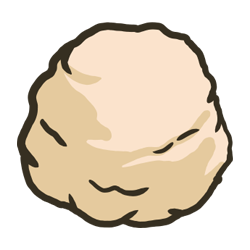
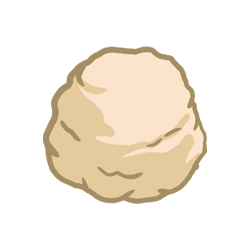
paste change

diff --git a/flutter_service_worker.js b/flutter_service_worker.js
@@ -6,9 +6,9 @@ const CACHE_NAME = 'flutter-app-cache';
 const RESOURCES = {"assets/AssetManifest.bin": "11ac1c749d076f8836d0c07e30c3ec3c",
 "assets/AssetManifest.bin.json": "e6a280ee1d44fec445c5e90715353706",
 "assets/AssetManifest.json": "3942233a6a28fabb7b6252540ba9eac1",
-"assets/assets/images/base/paste_original.png": "38314be4c09fae01e97903ff7be07d2b",
-"assets/assets/images/base/paste_rice.png": "1c64a25e0de69f37642b50916736fd06",
-"assets/assets/images/base/paste_vegi.png": "e911477d54d3349ae5bfbbc198ce76e2",
+"assets/assets/images/base/paste_original.png": "76d53039308891f75322bfa459ac0745",
+"assets/assets/images/base/paste_rice.png": "df7cbea473c9793532710a47f0057faf",
+"assets/assets/images/base/paste_vegi.png": "6508c5a9986f053880d47c423bd0b037",
 "assets/assets/images/color/150_black.png": "71e01142a32bf7e65c4685fcd3c850e4",
 "assets/assets/images/color/150_brown.png": "562cde12bc166ed55c04f65b94b06507",
 "assets/assets/images/color/150_default.png": "c132578941a8b4facdf61a1e99991dab",
@@ -228,10 +228,10 @@ const RESOURCES = {"assets/AssetManifest.bin": "11ac1c749d076f8836d0c07e30c3ec3c
 "canvaskit/skwasm_heavy.wasm": "8034ad26ba2485dab2fd49bdd786837b",
 "favicon.png": "5dcef449791fa27946b3d35ad8803796",
 "flutter.js": "888483df48293866f9f41d3d9274a779",
-"flutter_amook/.git/COMMIT_EDITMSG": "8cf8463b34caa8ac871a52d5dd7ad1ef",
+"flutter_amook/.git/COMMIT_EDITMSG": "553f3a1631eda841c32603eee0f59839",
 "flutter_amook/.git/config": "7a610f0f5d1926320954288a657788ba",
 "flutter_amook/.git/description": "a0a7c3fff21f2aea3cfa1d0316dd816c",
-"flutter_amook/.git/FETCH_HEAD": "3a9fb8bbadda816c68ae3b962de92efa",
+"flutter_amook/.git/FETCH_HEAD": "f25f2db344690e3939338bcf73b982a0",
 "flutter_amook/.git/HEAD": "cf7dd3ce51958c5f13fece957cc417fb",
 "flutter_amook/.git/hooks/applypatch-msg.sample": "ce562e08d8098926a3862fc6e7905199",
 "flutter_amook/.git/hooks/commit-msg.sample": "579a3c1e12a1e74a98169175fb913012",
@@ -247,12 +247,13 @@ const RESOURCES = {"assets/AssetManifest.bin": "11ac1c749d076f8836d0c07e30c3ec3c
 "flutter_amook/.git/hooks/push-to-checkout.sample": "c7ab00c7784efeadad3ae9b228d4b4db",
 "flutter_amook/.git/hooks/sendemail-validate.sample": "4d67df3a8d5c98cb8565c07e42be0b04",
 "flutter_amook/.git/hooks/update.sample": "647ae13c682f7827c22f5fc08a03674e",
-"flutter_amook/.git/index": "81623b284d544f5084a431d62a063801",
+"flutter_amook/.git/index": "7a720f245555f9d38d42dbe9885a27f7",
 "flutter_amook/.git/info/exclude": "036208b4a1ab4a235d75c181e685e5a3",
-"flutter_amook/.git/logs/HEAD": "39563df16ede8edbae221d6920fab2b2",
-"flutter_amook/.git/logs/refs/heads/main": "39563df16ede8edbae221d6920fab2b2",
-"flutter_amook/.git/logs/refs/remotes/origin/HEAD": "ea0c97eb9e837a37b5f919b5095d17ca",
-"flutter_amook/.git/logs/refs/remotes/origin/main": "b3721eb4b49ccd798d1015ede25a4ed2",
+"flutter_amook/.git/logs/HEAD": "f76ee0a10ee1a1005d883a215eabfcfa",
+"flutter_amook/.git/logs/refs/heads/main": "f76ee0a10ee1a1005d883a215eabfcfa",
+"flutter_amook/.git/logs/refs/remotes/origin/HEAD": "740607c0d0154a3d8f6285ca2695d865",
+"flutter_amook/.git/logs/refs/remotes/origin/main": "463281f97b5196f5852f8670dff2deeb",
+"flutter_amook/.git/objects/00/53d21bfcff20b7824c3f37f90b469118e5b5bf": "358f1b26b9d7cba12508577c93e7d2fc",
 "flutter_amook/.git/objects/02/3082c39677c94b1325571adf0654483e542d40": "0350ba3a38b1f5ff023f95e8f5734e2e",
 "flutter_amook/.git/objects/05/b3a2b37d64560a88f2dd4dd763f6fadd17292c": "f498137d89726bfe915cf598f1201233",
 "flutter_amook/.git/objects/0d/13fad4a09d199c65d9d6a0a7aa7d5270427d99": "1d59dfec92371cfb9b23102130f4815a",
@@ -264,26 +265,37 @@ const RESOURCES = {"assets/AssetManifest.bin": "11ac1c749d076f8836d0c07e30c3ec3c
 "flutter_amook/.git/objects/26/08371e99cc0f726a6fcd87398b707d439a21ac": "e73feafe58f9bd44b6e3483b8d5cf1e1",
 "flutter_amook/.git/objects/26/a51626b297ba7773d932c2e0c1ddbb11d0674d": "02e582d09072a70c8b8cced04ad8da34",
 "flutter_amook/.git/objects/2c/c3bcc68f7aa678faeefcc93daecb54d16ce3ba": "555dd58bc40cf9782a7d5332199c6f70",
+"flutter_amook/.git/objects/33/3f5b199822702a9b273e558081df46ffe81dc8": "17b67f6b6ba39d0a4ffed08d9f46dfd2",
 "flutter_amook/.git/objects/34/0cffe4bf5fdabbc256b60a3591d9b2ced2c9c5": "3f2f7fc82fcc87817347359db6fe5f61",
 "flutter_amook/.git/objects/3b/2aa069a5996efc0b8647deb7ff7e1c0fe06939": "27b33d013fdf6c07b7d943bd9be8540d",
 "flutter_amook/.git/objects/3e/0c61604d30fc0936d4807646ef168763fc5a8d": "5b29d78d1e9ae90df4b4f21dc84ccb4d",
 "flutter_amook/.git/objects/3e/1a61cfda92e92b920656a9d9c61967228e774f": "d78d8521857527147f0934841e6fab5b",
+"flutter_amook/.git/objects/3e/882d1d85c602c8f51f730bb6546479bcec4945": "a1918b6422a4aeee80fb96bd91509e44",
 "flutter_amook/.git/objects/44/254c64fdeca7d12bc6320f8c3f2c2345946f73": "75de0a152cc3f1a6b44050f0fd2eed17",
+"flutter_amook/.git/objects/45/6e254707fd2423904373b7af282eaa950658b8": "db2d7dc340dc64b6d614e1ed24d7e79f",
 "flutter_amook/.git/objects/45/e3aef76fd72af074076731952a908d27f25318": "395350287593e57069d12ffb1e96d7b0",
 "flutter_amook/.git/objects/47/42da518f65ed846c1c5c5fed1a371782776e72": "6fe167b301e3e384ab4563e6dd333535",
 "flutter_amook/.git/objects/48/9e77c587a9a7478ac492b1bb7abdaba39ac176": "75160819e6f490b51d8f83b9546c3393",
+"flutter_amook/.git/objects/4e/d03eabb7fdcbbaeca2eaed12432e25161e019d": "6377ff0cf10aec0e789306bb150bbf51",
 "flutter_amook/.git/objects/56/114f83029889ba7fbc270ea738b9e03f780d64": "87d74156d2e9ccd32540244563e3db2b",
 "flutter_amook/.git/objects/5a/b805f11539026ae4bfd942c51640a5195b5adb": "fd0e39eab2807ce12b20118f05cde8f9",
 "flutter_amook/.git/objects/60/2c7965ecc7a2e2ce8bdc4b942832474314e831": "58f1ba0569cf0bd341e02d7f6e772bc4",
+"flutter_amook/.git/objects/64/c5b549a7e59c49fd17f4d7802e05fb786a01b4": "0a3d5720c51f19be73aefb7b32b69e3a",
 "flutter_amook/.git/objects/64/dd2bfde35605f4d32e119921f2ae3d426c7a53": "3cef18617f4a9b95be8bb7c0c402cb3f",
 "flutter_amook/.git/objects/6c/82942bd2db05d4fff30393cd41f153947cf828": "4034fee84b3a48f08d3b0fefd5a3732e",
 "flutter_amook/.git/objects/6e/2937a7684305f4d5384c93a6d66719ccbad988": "4baff30d161e3d4ab7ac446e0bac1e1e",
 "flutter_amook/.git/objects/71/00c54660632360f4b554333a8d6bbbd47b1e12": "15f6ee76b747a1b1faea69ef47d046b0",
+"flutter_amook/.git/objects/74/ab6cdf87290546110fa6fe3648ac3545bc9f60": "9695b8740b972e81e4741356a6f6319a",
+"flutter_amook/.git/objects/77/361a8dc51108d63832fe694e4f4e4d6395393d": "61175ca5f32f971ff390bf9f35f60cb8",
 "flutter_amook/.git/objects/7d/8d970a181bb9299a7cd5b535dc6e7f8fae692c": "95b3ca78b4d18acc449925deb57b8689",
 "flutter_amook/.git/objects/7d/c16bb58c4a073cf7f474b95b4f0ec35ffbfb76": "d91f6d7d3b6bbc093a34d53798de8219",
+"flutter_amook/.git/objects/81/1c061e0e1e4594bb3b20d6c48ca326c34c7c7d": "054fccb489afc7448aa712ab46810ee2",
+"flutter_amook/.git/objects/81/f4903daec6a09b571e1a20f58b8c3422226a17": "7a922c9ff3427bb270cfaf4bd1cde508",
 "flutter_amook/.git/objects/83/af6c56c588b978a311f1a315f36abb69763d57": "b8e23e25e7a8e7bfaa372ae9f46286b6",
 "flutter_amook/.git/objects/89/d341b8a2b4d55fdda235d07ab11a0f4145c30a": "b5d9231aee7fd762c408090aaa00ed70",
+"flutter_amook/.git/objects/8c/a37cbce3302a32427bafdab2c50f4301e77cac": "05c60289c1d020206205bad868352701",
 "flutter_amook/.git/objects/8c/ec9d52dd8030abe7e4212aebe7cebef1128f7e": "23719ef7cd7b7cd6de833a7d36983475",
+"flutter_amook/.git/objects/8e/a1095c249c06deb5dde9b72a7b9a3d9f3d1c94": "40c330e0a0a6b8146ad6f0111d3fa117",
 "flutter_amook/.git/objects/93/a8f5660f2bd7eb339aa73264f082489a83cbdb": "4cd662832b09a6f3c6f050d04772735b",
 "flutter_amook/.git/objects/9e/2d1866a18f3d926ace47f5f2433a7e194bd81f": "790cc357311b8b83db5204dd9636bd27",
 "flutter_amook/.git/objects/a1/4b21439074607f2b495a60009862f55b45c5f4": "01d2c55a83ee8c031e33f59f613a6ff7",
@@ -296,9 +308,12 @@ const RESOURCES = {"assets/AssetManifest.bin": "11ac1c749d076f8836d0c07e30c3ec3c
 "flutter_amook/.git/objects/b6/3a7b1bd1fdfe290b439e5ec41c536df5001fa3": "c2fc72f6b69d3c6b8db55068119d9254",
 "flutter_amook/.git/objects/b7/6f7bb2ef7a8d0c3b879fe7d63416aa298a21d8": "dace6cd29f21bd2d34d201a3fc1aab20",
 "flutter_amook/.git/objects/bb/ce6f9d04a590178eb10c0e494168f021eaccaf": "223c0e81b12aacbc9de46afb37a390de",
+"flutter_amook/.git/objects/bd/8fb022567df94300638bbc9c79ab292bab30d2": "3c46a9e5766be39c5fc8d1263eddbe64",
 "flutter_amook/.git/objects/be/c27713f163ddd8a6764ee2a0749fcc5e72bf64": "6107605883302e3b7389aec980e7a2b5",
+"flutter_amook/.git/objects/c1/c9df88621e028981c266eb508237190ba1b8b7": "d6cc279d9a0e71e89e0a8678f75bc703",
 "flutter_amook/.git/objects/c4/9c61f155e08f1db133199cfefce9f6bf5b0df5": "a2dd58b1fc7f89ca3d668b8244f12c09",
 "flutter_amook/.git/objects/c6/4a6a3d117e8b0a38795eb6cd748c25ac3034d3": "25ebfbeefc896bfccb3da95b220d2306",
+"flutter_amook/.git/objects/d1/bd7444cf9e864efceb1faade00fe5c08d109e1": "755dcdb4ce3500660e72da918f1108d2",
 "flutter_amook/.git/objects/d2/6970fa45871f707f1c8f16a727eb2944ad450d": "42acd96a69968d3040b2f74ee8fe8850",
 "flutter_amook/.git/objects/d3/2a3622a0734f55046643282f96da1240d0114d": "3d1fbc5c41e8d955ee1bc11482dbea78",
 "flutter_amook/.git/objects/d8/44a593732cbd6d7bc4715a04768ee3aed01b85": "1b1bdee5db768eb7b25c5bdebd22237a",
@@ -309,18 +324,19 @@ const RESOURCES = {"assets/AssetManifest.bin": "11ac1c749d076f8836d0c07e30c3ec3c
 "flutter_amook/.git/objects/f0/87ba15386978571439515c264c51c76db7e2f8": "488acc9a7a0f01c046765bc97176d4d3",
 "flutter_amook/.git/objects/f2/be55285bdcaa5855023fe31cefb6fe98ab2271": "0d24d12cd49048795459343122b7edf3",
 "flutter_amook/.git/objects/f3/69dd676ef3b0d6d431aa16caa2a6219f7c9dda": "5545ac2a85bb22905738aac65a3fb8b6",
+"flutter_amook/.git/objects/f5/f14d12b9e62faeccef2cd0a173446fc4ad73be": "250d708e62ad0f6bf0f278ddd9a95675",
 "flutter_amook/.git/objects/f8/85394065e9946d91bd027b58269ce4fb94f46e": "c1de3026784058e2476ef6e94b933478",
 "flutter_amook/.git/objects/fb/5c7d65adb7184eaea30eed6bd287a785f6769f": "216b6c88457c15a9871efa5c036d7f22",
 "flutter_amook/.git/objects/pack/pack-dc5352464e519e72166085b0ff51bc813edd99b2.idx": "aa8f171f85e58917f1e721d9f7b29992",
 "flutter_amook/.git/objects/pack/pack-dc5352464e519e72166085b0ff51bc813edd99b2.pack": "cad97e6bd85e887b4a723f51ae348484",
 "flutter_amook/.git/objects/pack/pack-dc5352464e519e72166085b0ff51bc813edd99b2.rev": "cfaca8127b744126f6c71a4c992e6f7d",
 "flutter_amook/.git/packed-refs": "dac2b143cebd2ffa7f8900fe34d7e8a0",
-"flutter_amook/.git/refs/heads/main": "5de7941d82870213c1dbb0297b3080bb",
+"flutter_amook/.git/refs/heads/main": "c67c56ef3f36996cc606f344c171753e",
 "flutter_amook/.git/refs/remotes/origin/HEAD": "98b16e0b650190870f1b40bc8f4aec4e",
-"flutter_amook/.git/refs/remotes/origin/main": "5de7941d82870213c1dbb0297b3080bb",
-"flutter_amook/assets/AssetManifest.bin": "b4b457d6993b5bc84dd8872775d0cb54",
-"flutter_amook/assets/AssetManifest.bin.json": "f06e1caf20ee7279fc516371db963541",
-"flutter_amook/assets/AssetManifest.json": "c0cd50568c3c2071c8ea534ef955fb3f",
+"flutter_amook/.git/refs/remotes/origin/main": "c67c56ef3f36996cc606f344c171753e",
+"flutter_amook/assets/AssetManifest.bin": "11ac1c749d076f8836d0c07e30c3ec3c",
+"flutter_amook/assets/AssetManifest.bin.json": "e6a280ee1d44fec445c5e90715353706",
+"flutter_amook/assets/AssetManifest.json": "3942233a6a28fabb7b6252540ba9eac1",
 "flutter_amook/assets/assets/images/base/paste_original.png": "38314be4c09fae01e97903ff7be07d2b",
 "flutter_amook/assets/assets/images/base/paste_rice.png": "1c64a25e0de69f37642b50916736fd06",
 "flutter_amook/assets/assets/images/base/paste_vegi.png": "e911477d54d3349ae5bfbbc198ce76e2",
@@ -543,7 +559,7 @@ const RESOURCES = {"assets/AssetManifest.bin": "11ac1c749d076f8836d0c07e30c3ec3c
 "flutter_amook/canvaskit/skwasm_heavy.wasm": "8034ad26ba2485dab2fd49bdd786837b",
 "flutter_amook/favicon.png": "5dcef449791fa27946b3d35ad8803796",
 "flutter_amook/flutter.js": "888483df48293866f9f41d3d9274a779",
-"flutter_amook/flutter_bootstrap.js": "ad23614f1f300936f46cd00960ed6ece",
+"flutter_amook/flutter_bootstrap.js": "aaa08188b9e5f48e85d64a54011efdbd",
 "flutter_amook/icons/Icon-192.png": "ac9a721a12bbc803b44f645561ecb1e1",
 "flutter_amook/icons/Icon-512.png": "96e752610906ba2a93c65f8abe1645f1",
 "flutter_amook/icons/Icon-maskable-192.png": "c457ef57daa1d16f64b27b786ec2ea3c",
@@ -552,7 +568,7 @@ const RESOURCES = {"assets/AssetManifest.bin": "11ac1c749d076f8836d0c07e30c3ec3c
 "flutter_amook/main.dart.js": "d53d3f8a40404d61a5a45372d12a694a",
 "flutter_amook/manifest.json": "cc1e09816c7921715c888ad8d2e6a69e",
 "flutter_amook/version.json": "330b17265d3fbf0c8d66477c28be4674",
-"flutter_bootstrap.js": "aaa08188b9e5f48e85d64a54011efdbd",
+"flutter_bootstrap.js": "140b8c26aedcfe233a356db1098c537a",
 "icons/Icon-192.png": "ac9a721a12bbc803b44f645561ecb1e1",
 "icons/Icon-512.png": "96e752610906ba2a93c65f8abe1645f1",
 "icons/Icon-maskable-192.png": "c457ef57daa1d16f64b27b786ec2ea3c",

diff --git a/flutter_bootstrap.js b/flutter_bootstrap.js
@@ -38,6 +38,6 @@ _flutter.buildConfig = {"engineRevision":"ddf47dd3ff96dbde6d9c614db0d7f019d7c7a2
 
 _flutter.loader.load({
   serviceWorkerSettings: {
-    serviceWorkerVersion: "3539570591"
+    serviceWorkerVersion: "700653876"
   }
 });
